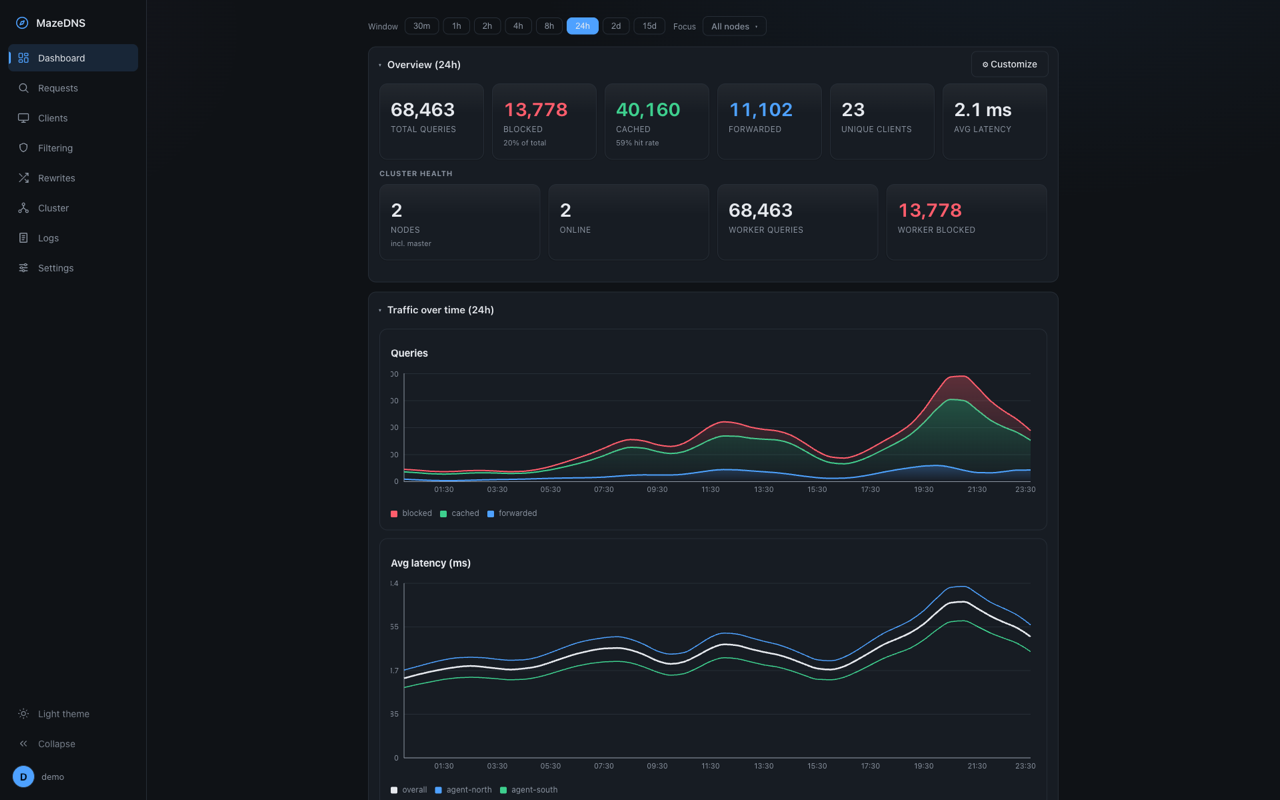
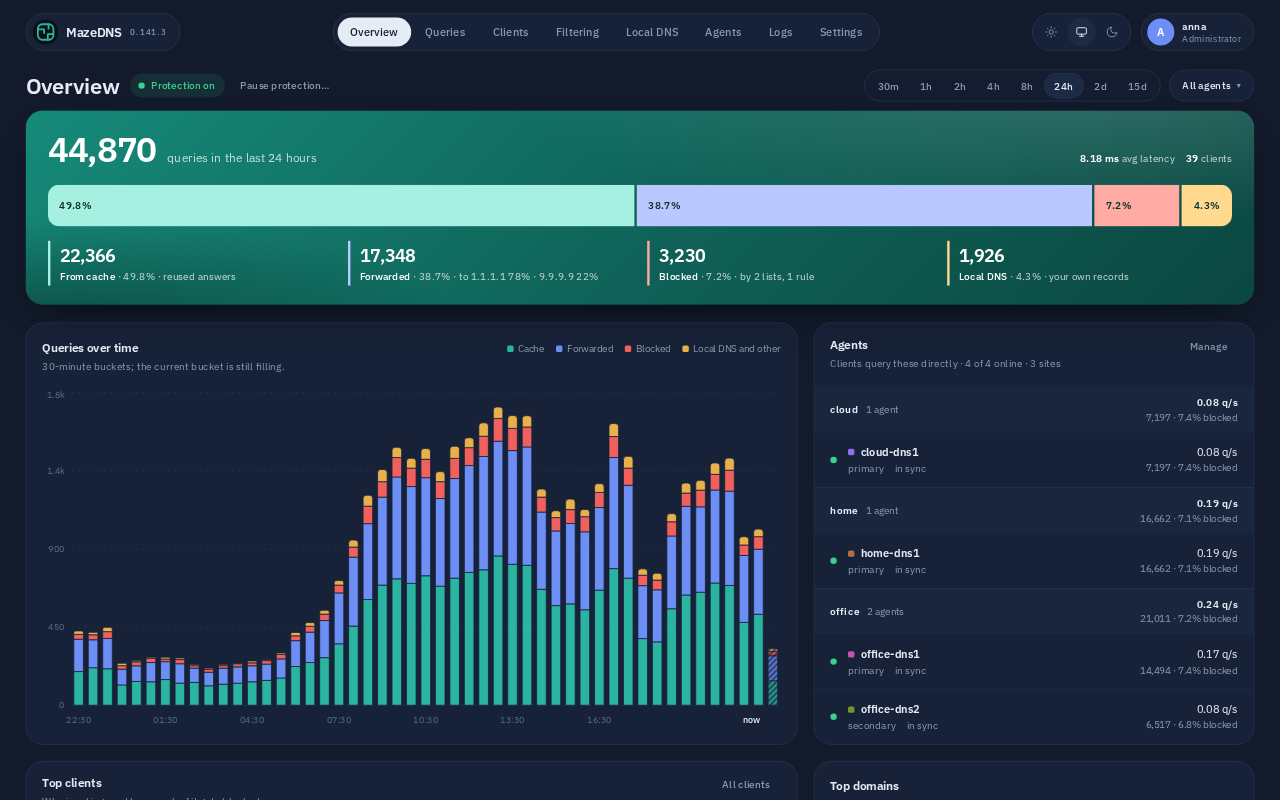
feat(site): new MazeDNS screenshot
The overview from the current release: a day of invented queries
across four agents in three sites.

diff --git a/site/index.html b/site/index.html
@@ -131,7 +131,7 @@
       <article class="win card" id="mazedns">
         <div class="win-bar"><span class="path">~/maze-labs/<b>mazedns</b></span><span class="status ok">● available</span></div>
         <div class="win-body">
-          <div class="shot"><img width="1280" height="800" src="img/mazedns.png" alt="MazeDNS dashboard with query totals, cluster health and traffic over time" loading="lazy"></div>
+          <div class="shot"><img width="1280" height="800" src="img/mazedns.png" alt="MazeDNS overview: a day of queries across four agents in three sites" loading="lazy"></div>
           <h3><img class="logo" width="32" height="32" src="img/logo-mazedns.svg" alt="">MazeDNS</h3>
           <p class="pitch">A filtering DNS resolver in the spirit of Pi-hole and AdGuard Home, built for more than one site.</p>
           <ul class="points">
